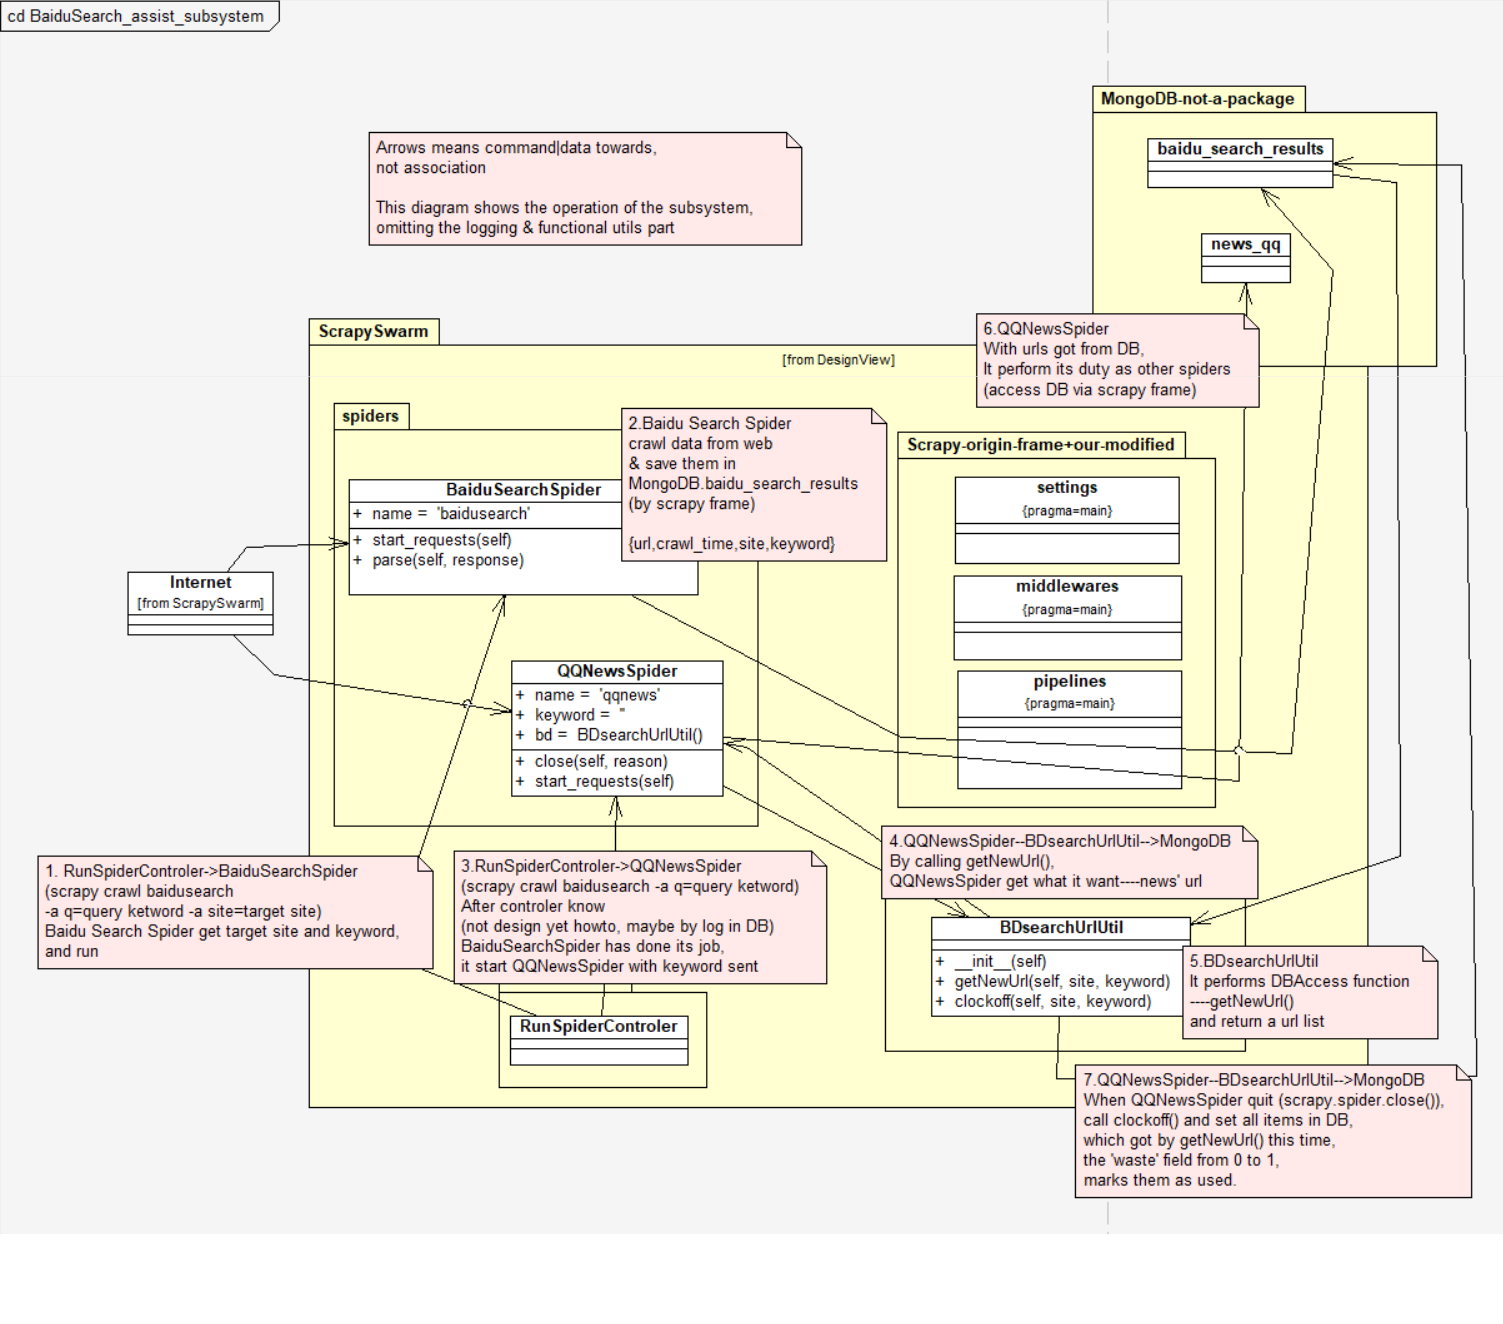
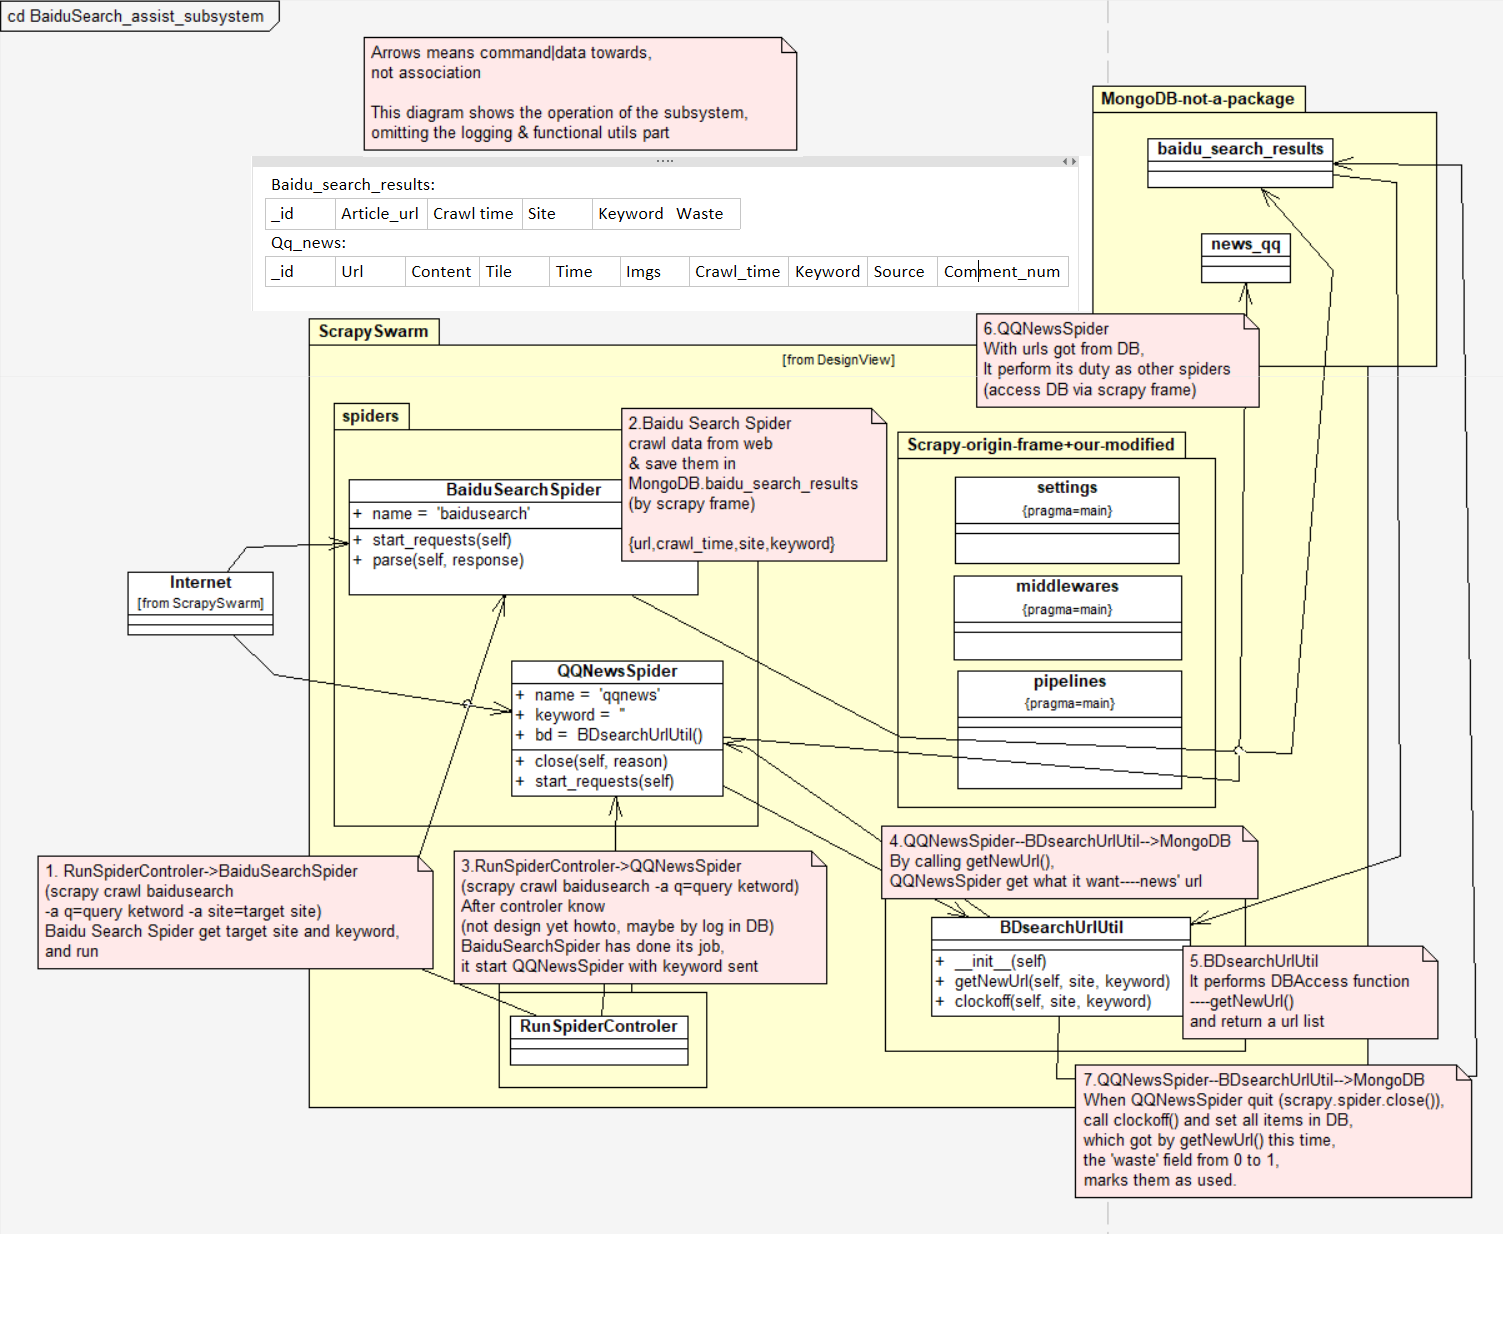
add CenterControlSubsystem-20190625 & change Baidu-search-assist-crawling-subsystem-Operation-diagram (add DB table pic)

Changed region(s): [[0.1836, 0.031, 0.7039, 0.2168]]

diff --git a/Doc/CenterControlSubsystem-20190625.md b/Doc/CenterControlSubsystem-20190625.md
@@ -1,0 +1,40 @@
+# SracpySwarm.CenterControl Subsystem Idea
+
+**2019-06-25 by boholder**
+
+## 0.db-access  (DB query & insert [& delete, update])
+
+数据库操作模块，因为数据库还没敲定是mongodb还是mysql，  
+所以暂时只写几个桩函数，返回boolean。
+
+这个模块有几个函数要看剩下的，随机应变，先不设计。
+
+## 1.log-util (called by spiders & run-control to send log to DB)
+
+这个也暂时没法设计，要借助scrapy提供的API，还没读文档。  
+或者要自己写一些主控层面的，爬虫运行记录。
+
+## 2.run-control (run spiders by cmdline.execute())
+
+* runSpider(spider, keyword, Timer=None)
+	* @param `spider`  \{string\} 爬虫名(name)
+	* @param`keyword `\{string\} 关键字 
+	* @param`Timer`  \{Timer\} 定时器
+	* @return Synchronize? Asynchronous?What?
+* Timer(second, repeatnum=1)
+	* @param`second `\{int\} 间隔秒数
+	* @param`repeatnum` \{int\} 重复次数 ，默认只运行一次
+	* 3组说要对同一微博每隔多久爬取一次评论与点赞数  
+	这个功能的使用应该与数据库表设计和爬虫实现结合。
+* runAllSpiders(keyword)
+	* @param`keyword `\{string\} 关键字 
+	* @return What?
+## 3.cc-api (called by upper system to run spiders | view log)
+
+算是一个接口模块，接受其他上层系统的调用，  
+查询DB|执行爬虫，并返回可供做决定的返回值  
+（指boolean和log信息字典）。
+
+暂时不设计，应该是把上面其他模块的函数都抽象出  
+一个接口函数就行了，也可能有些简化控制方面的封装逻辑。  
+比如runAllSpiders() 也可以做在这一个模块。
